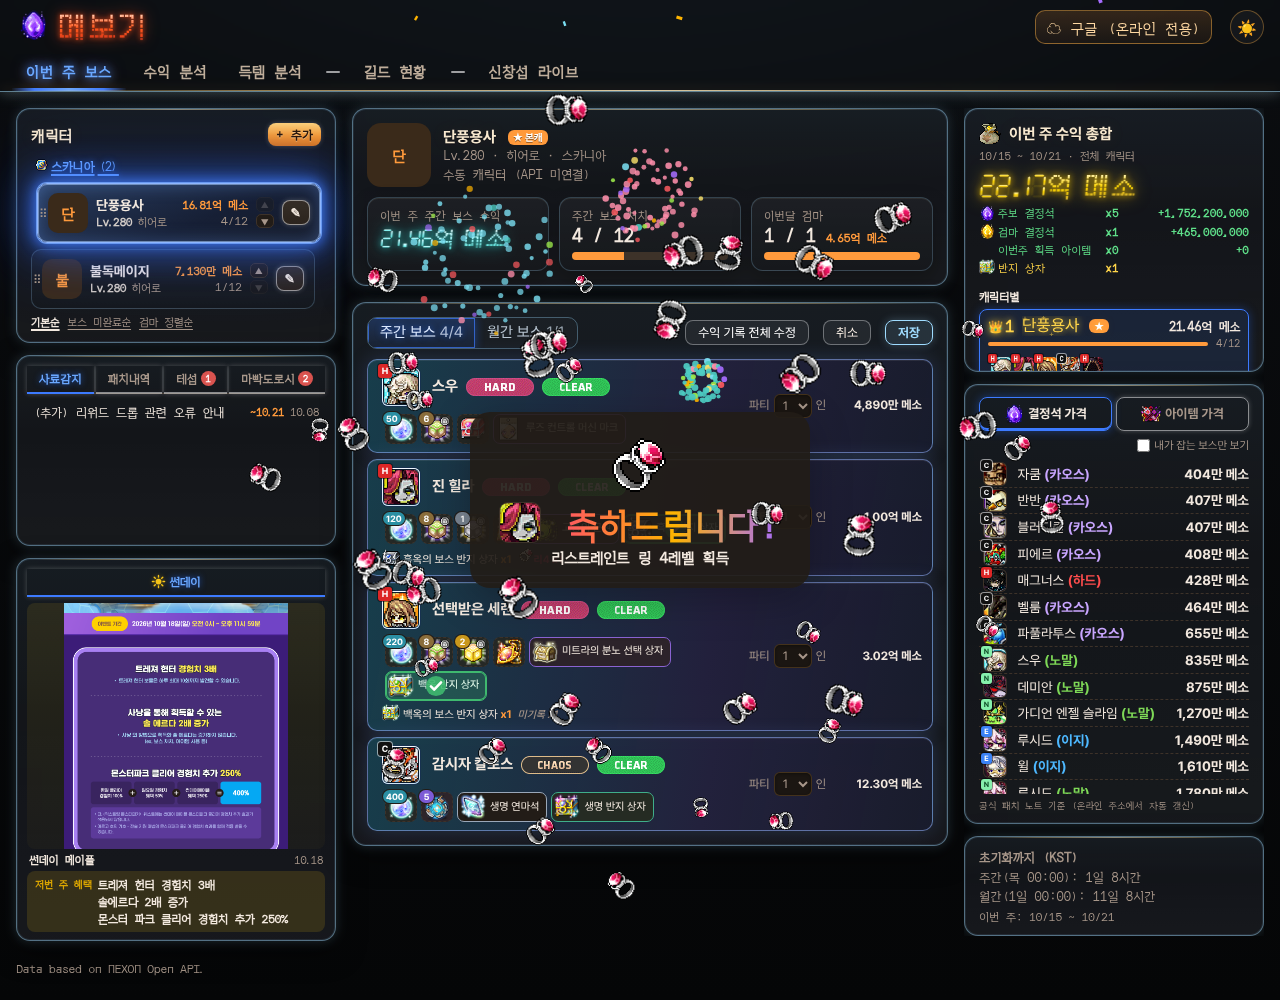
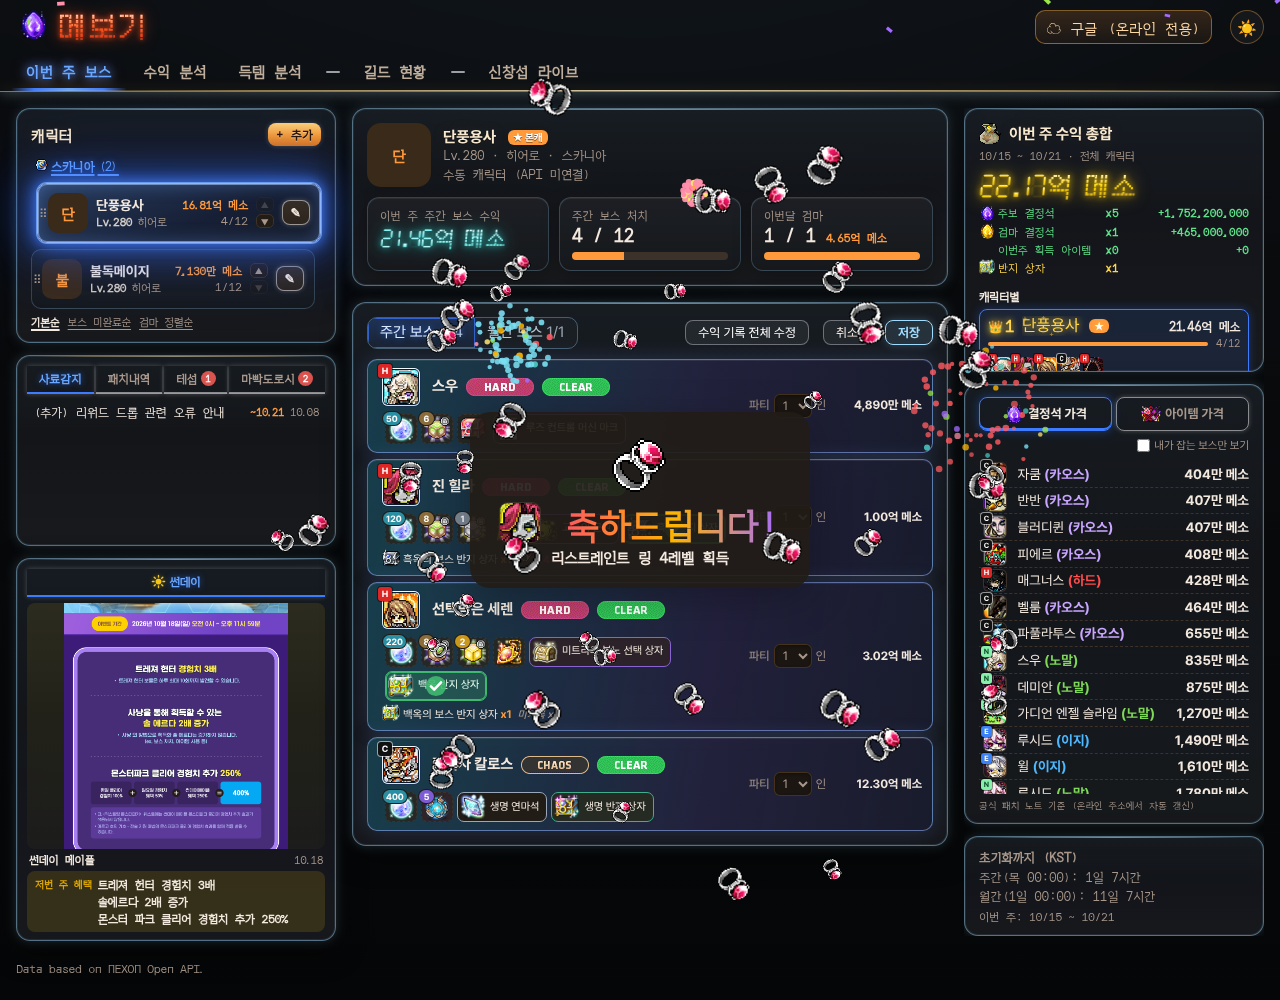
HANDOFF: b226

diff --git a/HANDOFF.md b/HANDOFF.md
@@ -1787,3 +1787,12 @@ tests/                  Playwright 회귀 테스트(test_tracker4~15), test_feed
 - 추가 요청: '이번주 획득 아이템' xN 안 보임. **원인**: b221 rpLbl 이 0개면 xN 을 안 그림 + 이 줄 개수는 b121 부터 반지 상자 제외(아래 '반지 상자' 줄에 따로) → 사용자 이번 주(10/15) 획득이 반지 상자 9개뿐이라 n=0 → xN 없음(예시는 일반 아이템 1개라 x1 보였음). 고침: `rpLbl(lb,n,z)` z 면 x0 도 표시 — '이번주 획득 아이템'·'주보 결정석' 줄(항상 있는 줄). 개수에 이번 주 잡은 검마 아이템(mdrops, monthly[slot]===이번 주)도 넣음(판매 금액 pItemSale 과 같은 규칙). 반지 상자 제외는 그대로(중복 방지). 반지 상자를 판 금액은 예전처럼 '이번주 획득 아이템' 금액에 들어감.
 - Worker 배포 17aa3ccd. run_par 실패 = 기존 목록(5 16 23 25 43 44 46 47 50 51 76 80 101 server server_b94), test_tracker81·92 는 검마 아이템 포함으로 기대값 x2·x4.
 - 테스트: 신규 tests/test_b225.py(8986~8988, wrangler dev: 자동 동기화 0요청·sync_click NULL, 클릭 1번 = 시각, 10초 안 다시 = 그대로, 동기화 중 0, 관리자 줄 '최근 로그인 M/D HH:MM' 한 줄), tests/test_b225_items.py(8997: 반지 상자만 → x0·반지 상자 x9, 아이템 2 → x2, 검마 이번 주만 → x3, 1600/1280/390, 예시 1600/390). test_tracker67 에 syncAt·'-' 검사. 빌드 'b225'. 사진 /workspace/b225/.
+
+## b226 (2026-10-20 KST) — '이번주 획득 아이템' 개수에 반지 상자 리4·컨4·연마석 결과 포함
+- 요청: "이번 주 획득 아이템에 리레4 판매금은 넣어졌는데, 아이템 갯수는 0개 … 반상에서 리레4, 컨티4, 연마석이 떴다면 카운팅에 포함시켜줘".
+- 원인: 금액(pItemSale)은 drev 전부(반지 결과 판매 'ring:r4' 포함)인데, 개수는 b121 부터 반지 상자 키(r_green·r_red·r_black·r_white·r_life)를 통째로 뺌 → 금액·개수 불일치.
+- 데이터: c.drops['보스|r_*']=상자 수, c.dropOut / c.mdropOut['보스|r_*'] = 결과 배열(획득 순서) 'r4'(리스트레인트 4)·'c4'(컨티뉴어스 4)·'gl'(생명의 연마석, 생명 상자)·'x'(꽝), 배열이 짧으면 나머지 = 미기록. 판매 = c.drev['보스|r_*'] {i:'ring:r4'…}.
+- 고침: `itemCnt(k,v,om)` = 일반 아이템 v개, 반지 상자 = min(v, r4+c4+gl 결과 수)(outTally). 꽝·미기록은 '반지 상자' 줄에만. 검마(mdrops)는 이번 주에 잡았을 때만(b225 그대로).
+- 이번 주 수익 줄의 판매 아이콘 `.rpsico` margin-right 3px 때문에 판매 기록이 있으면 '이번주 획득 아이템' xN 이 3px 밀리던 것 → `.rp-line .rpg .rpsico{margin-right:0;width:16px}`.
+- 원모 실제(D1 읽기만, 10/20 15:59 KST): 이번 주 상자 9개 — 림강혼망 림보 생명 상자 = r4(판매 기록 'ring:r4'), 나머지 8개 꽝 → '이번주 획득 아이템' x0 → **x1**, 반지 상자 x9 그대로.
+- 테스트: test_b225_items(원모 모양 x1·금액 같은 줄·xN 세로줄, 리4·컨4·연마석+미기록 x4) · test_tracker92 기대값 x7. 빌드 'b226'. 사진 /workspace/b226/.
